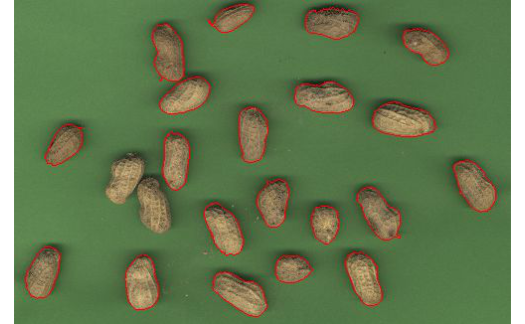
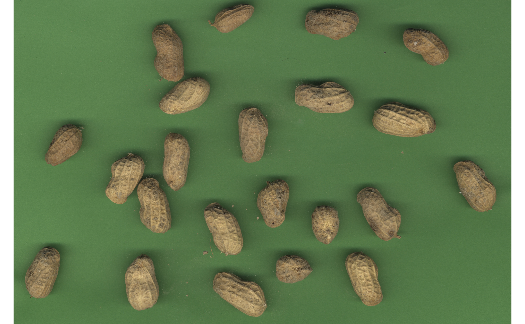
update pkgdown site

diff --git a/docs/articles/Rigatoni.html b/docs/articles/Rigatoni.html
@@ -75,15 +75,7 @@
     
 <p>Load the package</p>
 <div class="sourceCode" id="cb1"><pre class="downlit sourceCode r">
-<code class="sourceCode R"><span class="kw"><a href="https://rdrr.io/r/base/library.html">library</a></span><span class="op">(</span><span class="va">Rigatoni</span><span class="op">)</span>
-<span class="co">#&gt; Le chargement a nécessité le package : data.table</span>
-<span class="co">#&gt; Warning: le package 'data.table' a été compilé avec la version R 3.6.2</span>
-<span class="co">#&gt; Le chargement a nécessité le package : EBImage</span>
-<span class="co">#&gt; </span>
-<span class="co">#&gt; Attachement du package : 'EBImage'</span>
-<span class="co">#&gt; The following object is masked from 'package:data.table':</span>
-<span class="co">#&gt; </span>
-<span class="co">#&gt;     transpose</span></code></pre></div>
+<code class="sourceCode R"><span class="kw"><a href="https://rdrr.io/r/base/library.html">library</a></span><span class="op">(</span><span class="va">Rigatoni</span><span class="op">)</span></code></pre></div>
 <p>Set your working directory</p>
 <div class="sourceCode" id="cb2"><pre class="downlit sourceCode r">
 <code class="sourceCode R"><span class="fu"><a href="https://rdrr.io/r/base/getwd.html">setwd</a></span><span class="op">(</span><span class="st">"/path/to/the/directory/that/contains/images/to/analyse"</span><span class="op">)</span></code></pre></div>
@@ -95,7 +87,7 @@
 <code class="sourceCode R"><span class="va">f</span> <span class="op">=</span> <span class="fu"><a href="https://rdrr.io/r/base/system.file.html">system.file</a></span><span class="op">(</span><span class="st">"images"</span>, <span class="st">"peanut_pod.jpg"</span>, package<span class="op">=</span><span class="st">"Rigatoni"</span><span class="op">)</span>
 <span class="va">img</span> <span class="op">=</span> <span class="fu">readImage</span><span class="op">(</span><span class="va">f</span><span class="op">)</span>
 <span class="fu">display</span><span class="op">(</span><span class="va">img</span>, method<span class="op">=</span><span class="st">"raster"</span><span class="op">)</span></code></pre></div>
-<p><img src="Rigatoni_files/figure-html/unnamed-chunk-3-1.png" width="700"></p>
+<p><img src="Rigatoni_files/figure-html/unnamed-chunk-3-1.png" width="700" style="display: block; margin: auto;"></p>
 <p>The first thing to do is to get a range of color (hue) values for the background of the image that will be further used for applying a color threshold.</p>
 <div class="sourceCode" id="cb4"><pre class="downlit sourceCode r">
 <code class="sourceCode R"><span class="va">mythreshold</span> <span class="op">&lt;-</span> <span class="fu"><a href="../reference/get_huethr_values.html">get_huethr_values</a></span><span class="op">(</span><span class="va">img</span><span class="op">)</span>
@@ -103,6 +95,13 @@
 <p>The <code>get_huethr_values</code> function allows to click twice on the distribution. On the example below, the second peak represents the background. Click on both sides of the peak will return a vector of 2 values. <img src="Rigatoni_files/figure-html/unnamed-chunk-5-1.png" width="672" style="display: block; margin: auto;"></p>
 <pre><code>#&gt; [1] 60 90</code></pre>
 <p>Once the hue threshold values are determined it can be used to find features in the image using the <code>krnel</code> function</p>
+<div class="sourceCode" id="cb6"><pre class="downlit sourceCode r">
+<code class="sourceCode R"><span class="va">pods</span><span class="op">&lt;-</span><span class="fu"><a href="../reference/krnel.html">krnel</a></span><span class="op">(</span>img <span class="op">=</span> <span class="va">img</span>,
+            resizw <span class="op">=</span> <span class="fl">1000</span>,
+            huethres <span class="op">=</span> <span class="va">mythreshold</span>, 
+            minsize <span class="op">=</span> <span class="fl">200</span>,
+            maxsize <span class="op">=</span> <span class="fl">20000</span>,
+            save.outline <span class="op">=</span> <span class="cn">F</span><span class="op">)</span></code></pre></div>
 <p>Note that the <code>img</code> parameter can either be an Image object previously obtained with <code><a href="https://rdrr.io/pkg/EBImage/man/io.html">EBImage::readImage</a></code> or the name of an image file that is in your working directory (or it’s full patch if located elsewhere).<br>
 The <code>resizw</code> parameter allows to reduce image size by providing the width of the image that will be analyzed (height will be modified accordingly to respect h/w ratio). Reducing the size of the image improves the performance of features detection and is important when many images need to be analysed sequentially.<br>
 The <code>minsize</code> and <code>maxsize</code> parameters allow to fix the minimum and maximum size (area) of the objects that will be captured in the image. Note that the two parameters are expressed relatively to the resized image.</p>
@@ -115,30 +114,48 @@ It is a list with three components:</p>
 <li><p>params : a list with the analysis parameters. can be used for further plotting</p></li>
 </ul>
 <p>The features of the <code>pods</code> object can be plotted with the plot function:</p>
-<div class="sourceCode" id="cb6"><pre class="downlit sourceCode r">
+<div class="sourceCode" id="cb7"><pre class="downlit sourceCode r">
 <code class="sourceCode R"><span class="fu"><a href="https://rdrr.io/r/graphics/plot.html">plot</a></span><span class="op">(</span><span class="va">pods</span>, plot.bbox <span class="op">=</span> <span class="cn">T</span><span class="op">)</span></code></pre></div>
-<p><img src="Rigatoni_files/figure-html/unnamed-chunk-7-1.png" width="700" style="display: block; margin: auto;"></p>
+<p><img src="Rigatoni_files/figure-html/unnamed-chunk-7-1.png" width="672" style="display: block; margin: auto;"></p>
 <p>We can see that object #11 is the merger of two pods that were not separated on the scanner.<br>
 This artecfactual object can be excluded by decreasing <code>maxsize</code>.<br>
-Let’s decrease it to 2000.</p>
+Let’s decrease it to 10000.</p>
 <p>We can also set <code>save.outline</code> to <code>TRUE</code> so that the analysed image will be saved in the same directory with detected objects outlines.</p>
-<div class="sourceCode" id="cb7"><pre class="downlit sourceCode r">
-<code class="sourceCode R"><span class="va">pods</span><span class="op">&lt;-</span><span class="fu"><a href="../reference/krnel.html">krnel</a></span><span class="op">(</span>img <span class="op">=</span> <span class="va">img</span>, resizw <span class="op">=</span> <span class="fl">500</span>, huethres <span class="op">=</span> <span class="va">mythreshold</span>, minsize <span class="op">=</span> <span class="fl">100</span>, maxsize <span class="op">=</span> <span class="fl">2000</span>, save.outline <span class="op">=</span> <span class="cn">T</span>, img.name <span class="op">=</span> <span class="st">"peanut_pod"</span><span class="op">)</span></code></pre></div>
-<p><img src="Rigatoni_files/figure-html/unnamed-chunk-9-1.png" width="700"></p>
-<p>The resulting <code>pods</code> object no longer contains the 2 non separated pods.</p>
 <div class="sourceCode" id="cb8"><pre class="downlit sourceCode r">
+<code class="sourceCode R"><span class="va">pods</span><span class="op">&lt;-</span><span class="fu"><a href="../reference/krnel.html">krnel</a></span><span class="op">(</span>img <span class="op">=</span> <span class="va">img</span>,
+            resizw <span class="op">=</span> <span class="fl">1000</span>,
+            huethres <span class="op">=</span> <span class="va">mythreshold</span>,
+            minsize <span class="op">=</span> <span class="fl">200</span>,
+            maxsize <span class="op">=</span> <span class="fl">10000</span>,
+            save.outline <span class="op">=</span> <span class="cn">T</span>,
+            img.name <span class="op">=</span> <span class="st">"peanut_pod"</span><span class="op">)</span></code></pre></div>
+<p><img src="Rigatoni_files/figure-html/unnamed-chunk-9-1.png" width="700" style="display: block; margin: auto;"></p>
+<p>The resulting <code>pods</code> object no longer contains the 2 non separated pods.</p>
+<div class="sourceCode" id="cb9"><pre class="downlit sourceCode r">
 <code class="sourceCode R"><span class="fu"><a href="https://rdrr.io/r/graphics/plot.html">plot</a></span><span class="op">(</span><span class="va">pods</span>, plot.bbox <span class="op">=</span> <span class="cn">T</span><span class="op">)</span></code></pre></div>
-<p><img src="Rigatoni_files/figure-html/unnamed-chunk-10-1.png" width="700" style="display: block; margin: auto;"></p>
+<p><img src="Rigatoni_files/figure-html/unnamed-chunk-10-1.png" width="672" style="display: block; margin: auto;"></p>
+<p>Another, and recommended, option is to use the <code>watershed</code> parameter.</p>
+<div class="sourceCode" id="cb10"><pre class="downlit sourceCode r">
+<code class="sourceCode R"><span class="va">pods</span><span class="op">&lt;-</span><span class="fu"><a href="../reference/krnel.html">krnel</a></span><span class="op">(</span>img <span class="op">=</span> <span class="va">img</span>, 
+            resizw <span class="op">=</span> <span class="fl">1000</span>, 
+            huethres <span class="op">=</span> <span class="va">mythreshold</span>, 
+            minsize <span class="op">=</span> <span class="fl">200</span>, 
+            maxsize <span class="op">=</span> <span class="fl">20000</span>, 
+            save.outline <span class="op">=</span> <span class="cn">F</span>, 
+            watershed <span class="op">=</span> <span class="cn">T</span><span class="op">)</span>
+
+<span class="fu"><a href="https://rdrr.io/r/graphics/plot.html">plot</a></span><span class="op">(</span><span class="va">pods</span>, plot.bbox <span class="op">=</span> <span class="cn">T</span><span class="op">)</span></code></pre></div>
+<p><img src="Rigatoni_files/figure-html/unnamed-chunk-11-1.png" width="672" style="display: block; margin: auto;"></p>
 </div>
 <div id="working-on-many-images" class="section level2">
 <h2 class="hasAnchor">
 <a href="#working-on-many-images" class="anchor"></a>Working on many images</h2>
 <p>If your working directory contains many images it is possible to analyse several or all of them at a time.</p>
-<div class="sourceCode" id="cb9"><pre class="downlit sourceCode r">
+<div class="sourceCode" id="cb11"><pre class="downlit sourceCode r">
 <code class="sourceCode R"><span class="va">files</span> <span class="op">&lt;-</span> <span class="fu"><a href="https://rdrr.io/r/base/list.files.html">dir</a></span><span class="op">(</span>pattern <span class="op">=</span> <span class="st">".*.jpg$"</span><span class="op">)</span>
 <span class="co">#or files &lt;- c("file1.jpg", "file2.jpg", "file3.jpg")</span></code></pre></div>
 <p>To apply the <code>krnel</code> function to all the files listed in <code>files</code> and get the result in a list, we can use the lapply function.</p>
-<div class="sourceCode" id="cb10"><pre class="downlit sourceCode r">
+<div class="sourceCode" id="cb12"><pre class="downlit sourceCode r">
 <code class="sourceCode R"><span class="va">img_pods</span> <span class="op">&lt;-</span> <span class="fu"><a href="https://rdrr.io/r/base/lapply.html">lapply</a></span><span class="op">(</span><span class="va">files</span>,
                    <span class="kw">function</span><span class="op">(</span><span class="va">a</span><span class="op">)</span> <span class="fu"><a href="../reference/krnel.html">krnel</a></span><span class="op">(</span>img <span class="op">=</span> <span class="va">a</span>,
                                      resizw <span class="op">=</span> <span class="fl">1000</span>,
@@ -148,10 +165,10 @@ Let’s decrease it to 2000.</p>
                                      save.outline <span class="op">=</span> <span class="cn">T</span><span class="op">)</span>
                    <span class="op">)</span></code></pre></div>
 <p>We thus get a list of krnel objects. Let’s name the components of the list with image names.</p>
-<div class="sourceCode" id="cb11"><pre class="downlit sourceCode r">
+<div class="sourceCode" id="cb13"><pre class="downlit sourceCode r">
 <code class="sourceCode R"><span class="fu"><a href="https://rdrr.io/r/base/names.html">names</a></span><span class="op">(</span><span class="va">img_pods</span><span class="op">)</span> <span class="op">&lt;-</span> <span class="va">files</span></code></pre></div>
 <p>To extract all features of all images into a single data.table with an extra column containing the name of the images :</p>
-<div class="sourceCode" id="cb12"><pre class="downlit sourceCode r">
+<div class="sourceCode" id="cb14"><pre class="downlit sourceCode r">
 <code class="sourceCode R"><span class="va">all_features</span> <span class="op">&lt;-</span> <span class="fu"><a href="https://rdrr.io/r/base/do.call.html">do.call</a></span><span class="op">(</span><span class="va">rbind</span>,
                         <span class="fu"><a href="https://rdrr.io/r/base/funprog.html">Map</a></span><span class="op">(</span><span class="kw">function</span><span class="op">(</span><span class="va">a</span>, <span class="va">i</span><span class="op">)</span> <span class="fu">data.table</span><span class="op">(</span>Image<span class="op">=</span><span class="va">i</span>, <span class="va">a</span><span class="op">$</span><span class="va">features</span><span class="op">)</span>,
                             <span class="va">img_pods</span>,

diff --git a/docs/reference/kernl_to_coo_list.html b/docs/reference/kernl_to_coo_list.html
@@ -6,7 +6,7 @@
 <meta http-equiv="X-UA-Compatible" content="IE=edge">
 <meta name="viewport" content="width=device-width, initial-scale=1.0">
 
-<title>Function reference • Rigatoni</title>
+<title>Convert a krnel object into a coo list from Momocs2 package — kernl_to_coo_list • Rigatoni</title>
 
 <!-- jquery -->
 <script src="https://cdnjs.cloudflare.com/ajax/libs/jquery/3.4.1/jquery.min.js" integrity="sha256-CSXorXvZcTkaix6Yvo6HppcZGetbYMGWSFlBw8HfCJo=" crossorigin="anonymous"></script>
@@ -36,7 +36,11 @@
 
 
 
-<meta property="og:title" content="Function reference" />
+<meta property="og:title" content="Convert a krnel object into a coo list from Momocs2 package — kernl_to_coo_list" />
+
+<meta property="og:description" content="Convert a krnel object into a coo list from Momocs2 package" />
+
+
 
 
 
@@ -54,7 +58,7 @@
   </head>
 
   <body data-spy="scroll" data-target="#toc">
-    <div class="container template-reference-index">
+    <div class="container template-reference-topic">
       <header>
       <div class="navbar navbar-default navbar-fixed-top" role="navigation">
   <div class="container">
@@ -100,60 +104,36 @@
       </header>
 
 <div class="row">
-  <div class="contents col-md-9">
+  <div class="col-md-9 contents">
     <div class="page-header">
-      <h1>Reference</h1>
+    <h1>Convert a krnel object into a coo list from Momocs2 package</h1>
+    
+    <div class="hidden name"><code>kernl_to_coo_list.Rd</code></div>
     </div>
 
-    <table class="ref-index">
+    <div class="ref-description">
+    
+    <p>Convert a krnel object into a coo list from Momocs2 package</p>
+    
+    </div>
 
-    <colgroup>
-      
-      <col class="alias" />
-      <col class="title" />
-    </colgroup>
-
-    <tbody>
-      <tr>
-        <th colspan="2">
-          <h2 id="section-all-functions" class="hasAnchor"><a href="#section-all-functions" class="anchor"></a>All functions</h2>
-          <p class="section-desc"></p>
-        </th>
-      </tr>
-      
-      
-    </tbody><tbody>
-      
-      
-      <tr>
-        
-        <td>
-          <p><code><a href="get_huethr_values.html">get_huethr_values()</a></code> </p>
-        </td>
-        <td><p>Plot the histogram of hue values of image to determine the hue range of the background</p></td>
-      </tr><tr>
-        
-        <td>
-          <p><code><a href="kernl_to_coo_list.html">kernl_to_coo_list()</a></code> </p>
-        </td>
-        <td><p>Convert a krnel object into a coo list from Momocs2 package</p></td>
-      </tr><tr>
-        
-        <td>
-          <p><code><a href="krnel.html">krnel()</a></code> </p>
-        </td>
-        <td><p>main function to identify features in an image</p></td>
-      </tr><tr>
-        
-        <td>
-          <p><code><a href="plot.krnel.html">plot(<i>&lt;krnel&gt;</i>)</a></code> </p>
-        </td>
-        <td><p>plot features of a krnel object</p></td>
-      </tr>
-    </tbody>
+    <pre class="usage"><span class='fu'>kernl_to_coo_list</span><span class='op'>(</span><span class='va'>x</span><span class='op'>)</span></pre>
+    
+    <h2 class="hasAnchor" id="arguments"><a class="anchor" href="#arguments"></a>Arguments</h2>
+    <table class="ref-arguments">
+    <colgroup><col class="name" /><col class="desc" /></colgroup>
+    <tr>
+      <th>x</th>
+      <td><p>a krnel object as returned by krnel function</p></td>
+    </tr>
     </table>
-  </div>
+    
+    <h2 class="hasAnchor" id="value"><a class="anchor" href="#value"></a>Value</h2>
 
+    <p>a coo list</p>
+    
+
+  </div>
   <div class="col-md-3 hidden-xs hidden-sm" id="pkgdown-sidebar">
     <nav id="toc" data-toggle="toc" class="sticky-top">
       <h2 data-toc-skip>Contents</h2>
